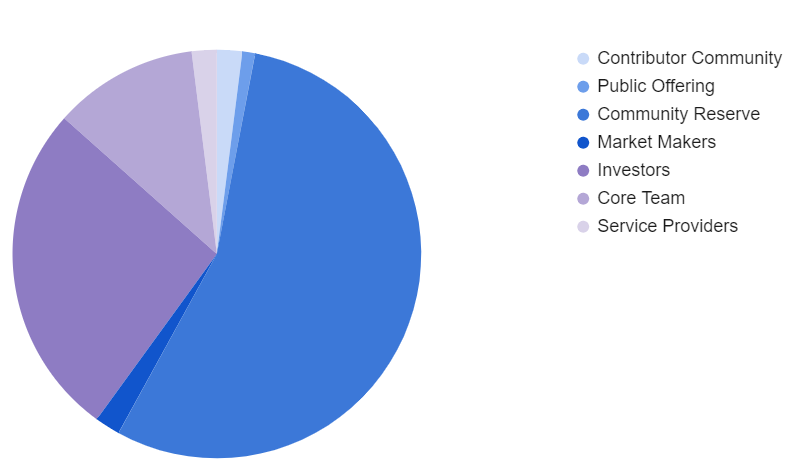
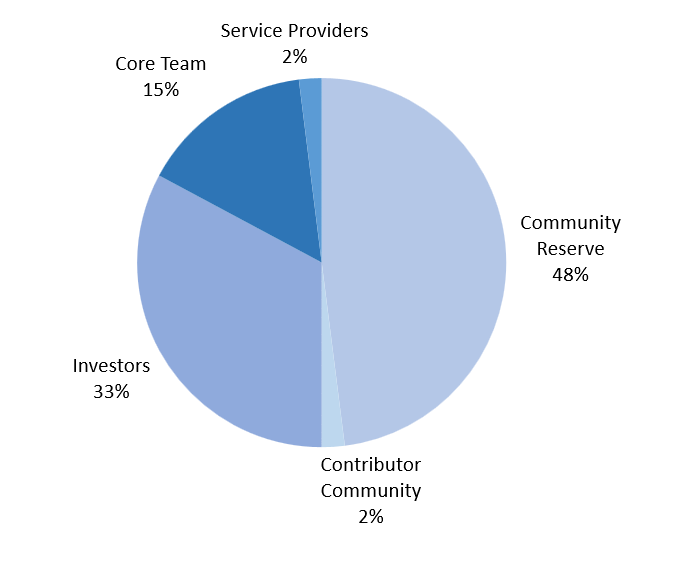
Update token-utility-whitepaper.md (#9)
* Update token-utility-whitepaper.md

* Add files via upload

* Add files via upload

* Add files via upload

* Add files via upload

* Add files via upload

* Add files via upload

* Update token-utility-whitepaper.md

* Add files via upload

* Add files via upload

* Update token-utility-whitepaper.md

diff --git a/token-utility-whitepaper.md b/token-utility-whitepaper.md
@@ -1,83 +1,75 @@
-# Token Utility Whitepaper - v1.1
+# Token Utility Whitepaper - v2.0
 
 ## Introduction
-A token economy is non-trivial and continues to be an area of much research and debate in the Ethereum community. This proposal document is just that, a proposal which is intended to deliver a viable starting point for an Obscuro token economy. The economic model is expected to evolve over the lifetime of Obscuro via governance proposals.
+A token economy is non-trivial and continues to be an area of much research and debate in the Web3 community. This proposal document is just that, a proposal which is intended to deliver a viable starting point for an Obscuro token economy. The economic model is expected to evolve over the lifetime of Obscuro via governance proposals.
 
-Obscuro depends upon a network of intercommunicating Obscuro nodes to achieve its decentralisation, scalability and privacy promises. The Obscuro Mainnet node operators incur operating costs for which they need to be remunerated. This is achieved through a rewards and incentives model for the Obscuro token called OBX. Additionally OBX provides the means for the Obscuro community to vote on change proposals to Obscuro and for ongoing development of the Obscuro ecosystem. 
-The Obscuro tokenomics have been designed to be circulatory and self-sustaining with no human intervention and no subsidies. Instead decentralised Obscuro smart contracts handle all token movements (transaction fees, rewards and staking).
+The eventual Obscuro implementation depends upon a network of intercommunicating Obscuro nodes to achieve its decentralisation, scalability and confidentiality promises. Obscuro node operators incur operating costs for which they need to be remunerated. This is achieved through a rewards and incentives model. Obscuro's native token, OBX, provides the means for the Obscuro community to vote on change proposals to Obscuro and for ongoing development of the Obscuro ecosystem. The long-term Obscuro tokenomics have been designed to be circulatory and self-sustaining with no human intervention and no subsidies. Instead decentralised Obscuro smart contracts handle all token movements (transaction fees, rewards and staking).
 
-Although OBX is not deflationary, token holders are incentivised to stake as node operators or as staking delegates by means of a reward. This will lock up OBX in staking pools and reduce the number of OBX in circulation. 
-
-This tokenomics whitepaper describes the long term intentions for OBX’s utility. In some cases a shorter term approach is used to bootstrap the Obscuro network. Where required, this whitepaper explicitly makes that clear.
-In summary, OBX has four utilities:
+This tokenomics whitepaper describes both the tokenomics for the bootstrapping phase of the Obscuro network and the long term intentions for OBX’s utility. In summary, OBX will have four utilities after the bootstrapping phase and once the long term plans for Obscuro are in place:
 
 1.	To provide a reward to incentivise node operators to correctly operate Obscuro nodes and provide a reliable service.
 2.	A medium in which users can pay transaction fees and node operators can pay their stake and receive rewards to cover operational costs.
 3.	A means to vote on proposals for changes to Obscuro via a governance model.
 4.	A means to fund and incentivise the ongoing development of the Obscuro ecosystem via development opportunities, grants and competitions.
 
+## Bootstrapping
 
-## Token Issuance
-_This section is non-normative_
+The eventual Obscuro implementation and the final outcome of this tokenomics proposal assumes an Obscuro network with significant traction. To get there we estimate Obscuro will need at least one year, most likely more. During these early days of bootstrapping we have to take into consideration ease of adoption, code maturity and security. A low friction user and developer experience has been an obsession within Obscuro's design underpining many decisions.
 
-OBX is issued by the Obscuro Foundation. The Token Generation Event (TGE) occurs when the Obscuro Mainnet is substantially complete and application builders and Obscuro participants can meaningfully interact with it. The Obscuro Foundation DAO controls the ongoing tokenomics for Obscuro Mainnet according to the DAO’s constitution.
+Other major Layer 2 solutions have opted for a pragmatic approach where they have started out paying gas fees in ETH, Ethereum's native token, rather than their native token. We propose that Obscuro starts out similarly to these Layer 2 solutions with transaction fees and rewards being in ETH whilst the OBX token's utility remains in place as a means of providing a node stake and as a means of voting on proposals for changes to Obscuro via a governance model.
+
+## Token Supply
+
+OBX is issued by the Obscuro Foundation. The Token Generation Event (TGE) occurs after the Obscuro Mainnet being substantially complete and application builders and Obscuro participants can meaningfully interact with it. The Obscuro Foundation DAO controls the ongoing tokenomics for Obscuro according to the DAO’s constitution.
 
 The initial token supply is 1,000,000,000 OBX. There is no minting or burning in the Obscuro protocol design. At a future date the Obscuro DAO will have the option of voting to issue more tokens if required.
 
-The allocations aim to reward ongoing participation in Obscuro and minimise short-termism. The largest allocations with unlocking from the get-go are for community members, third-party integrators and application developers building on top of Obscuro so they can grow and succeed alongside Obscuro.
+## Token Staking and Delegated Staking
+Nodes must stake OBX when they initially join Obscuro Mainnet as a means for the node operator to demonstrate their intention to maintain the health of the network and the integrity of the ledger. The stake is intentionally set at a high quantity so the loss of stake is material to the operator, for example their ability to take part in the governance of the network is diminished. Locked seed round tokens and unlocked tokens can be staked.
 
-An airdrop has been intentionally omitted from the allocation because typically they do not benefit projects in the medium to long term. However where a responsible airdrop program can be used to drive adoption of Obscuro this decision will be revisited.
+The number of tokens required to stake will be reviewed and set by the Obscuro Foundation DAO as the Obscuro Mainnet total value locked (TVL) increases. Increasing the minimum stake as TVL increases continues to disincentivise would-be malicious actors from disrupting the network as the theoretical gain from a malicious event becomes more attractive. Once the bootstrapping phase is complete, the size of a node’s stake influences the probability of that node winning the lottery for the rollup submission round.
 
+Delegated staking is also available to allow others without access to large amounts of OBX to participate in Obscuro Mainnet. Delegates are in a position to take a proportion of the reward issued to a node. Delegates are free to choose which node they contribute a stake for, this being an incentive for node operators to provide healthy nodes with good uptime, performance and reliability guarantees. This contributes to the good health of the overall Obscuro network. The Obscuro Foundation DAO monitors the Obscuro network checking for clustering of stakes and a skew towards centralisation from decentralisation in which case additional measures could be proposed to maintain an appropriate degree of decentralisation.
+
+The diagram below summarises the different types of staking and the distribution of delegated stakes.  
+
+
+<p align="left" width="100%">
+    <img width="75%" src="./assets/delegated-staking-diagram-20230601.png">
+</p>
+
+1. Nodes 1 and 2 have the minimum stake quantity provided by the node operator and they are participants on the Obscuro network. Node 3 does not have the minimum stake therefore it is not a member of the Obscuro network.
+2. A delegated stake is provided for node 1 and node 2. Node 2 has the larger delegated stake which has influenced the probability of node 2 winning the rollup lottery.
+3. Node 2 has won the rollup lottery. The reward is given and shared proportionally amongst the node operator and delegates for Node 2 in line with the proportion of quantity of their staked OBX.
+
+There is an occasion where tokens are slashed although this is expected to be very rare. Specifically, operators who use a hacked enclave on their node in an attempt to break the ledger’s integrity will be discovered by the protocol. Their punishment is to have their stake slashed and returned to the Community Reserve.
+
+## Rewards
+There are three types of node rewards in Obscuro: a reward for being an active node and taking part in the lottery to select which node will submit a rollup; a reward for submitting a rollup to the Layer 1; a reward for making a successful challenge to an inaccurate rollup, for example transactions are missing or in the wrong order. During the bootstrapping phase rewards will be made in ETH and the reward will be limited to those nodes which are verifying the accuracy of the signed list of transaction hashes generated. After the bootstrapping phase the rewards will be made in OBX and the reward model extended to include the nodes producing rollups and publishing to the Layer 1.
+
+If a node finds a discrepancy with the rollup published on the Layer 1 network, it can post a challenge including the offending rollup to the Layer 1 network. The management contract will inspect this challenge. If successful during the bootstrapping phase, a reward in ETH is given to the challenging node. After the bootstrapping phase the rewards will be made in OBX. The value of the reward is greater than the gas cost of posting the challenge to incentivise prompt discovery of issues. Additionally the stake of the node which introducted the discrepency will be slashed with the entire stake returning to the Community Reserve.
+
+## Token Allocation
+
+The allocations of OBX aim to reward ongoing participation in Obscuro and minimise short-termism. The largest allocations are for community members, third-party integrators and application developers building on top of Obscuro so they can grow and succeed alongside Obscuro.
 
 | RECIPIENT             | TOKEN AMOUNT   | ALLOCATION % |
 |-----------------------|----------------|--------------|
 | Contributor Community | 20,000,000     | 2.00         |
-| Public Offering       | 10,000,000     | 1.00         |
-| Community Reserve     | 550,000,000    | 55.00        |
-| Market Makers         | 20,000,000     | 2.00         |
-| Investors*            | 265,700,000    | 26.57        |
-| Core Team             | 114,500,000    | 11.45        |
+| Community Reserve     | 480,000,000    | 48.00        |
+| Investors             | 328,200,000    | 32.82        |
+| Core Team             | 152,000,000    | 15.20        |
 | Service Providers     | 19,800,000     | 1.98         |
 
-   *Pre-seed investor has rights to 23% of token allocation at each token issuance.
 
 <p align="center" width="100%">
     <img width="75%" src="./assets/token-allocation-pie-230228.png">
 </p>
 
-### Token Staking and Delegated Staking
-Nodes must stake OBX when they initially join Obscuro Mainnet as a means for the node operator to demonstrate their intention to maintain privacy, ledger integrity and not attempt to disrupt the safety of the network. The stake is intentionally set at a high value so the loss of stake is material to the operator. Locked tokens can be staked.
-
-If a node finds a discrepancy with the rollup published on the Layer 1 network (e.g. transactions missing, transactions in the wrong order), it can post a challenge including the offending rollup to the Layer 1 network. The management contract will inspect this challenge. If successful, the Aggregator's stake will be slashed, with their entire stake split between the Obscuro Foundation DAO and the challenging node as a reward. This reward is greater than the cost of posting the challenge to incentivise prompt discovery of issues, but less than the total stake to reduce the incentive to mount an attack to win the stake.
-
-The number of tokens required to stake will be reviewed and set by the Obscuro Foundation DAO as the Obscuro Mainnet total value locked (TVL) increases. Increasing the minimum stake as TVL increases continues to economically disincentivise would-be malicious actors from disrupting the network as the theoretical gain from a malicious event becomes more attractive. Once the bootstrapping phase is complete, the size of a node’s stake influences the probability of that node winning the lottery for the rollup submission round.
-
-Delegated staking is also available to allow others without access to large amounts of OBX to participate in Obscuro Mainnet. Delegates are in a position to take a proportion of the reward issued to a node. Delegates are free to choose which node they contribute a stake for, this being an incentive for node operators to provide healthy nodes with good uptime, performance and reliability guarantees. This contributes to the good health of the overall Obscuro network. The Obscuro Foundation DAO monitors the Obscuro network checking for clustering of stakes and a skew towards centralisation from decentralisation in which case additional measures could be proposed to maintain an appropriate degree of decentralisation.
-
-The diagram below summarises the different types of staking and the distribution of delegated stakes.
-
-<p align="left" width="100%">
-    <img width="75%" src="./assets/Delegated-Staking.png">
-</p>
-
-1. Nodes 1 and 2 have the minimum stake value provided by the node operator and they are participants on the Obscuro network. Node 3 does not have the minimum stake therefore it is not a member of the Obscuro network.
-2. A delegated stake is provided for node 1 and node 2. Node 2 has the larger delegated stake which has influenced the probability of node 2 winning the rollup lottery.
-3. Node 2 has won the rollup lottery. The reward is taken from the pool of transaction fees and shared proportionally amongst the node operator and delegates for Node 2 in line with the proportion of their staked value.
-
-There is an occasion where tokens are slashed although this is expected to be very rare. Specifically, operators who use a hacked enclave on their node in an attempt to break the ledger’s integrity will be discovered by the protocol. Their punishment is to have their stake slashed and returned to the Community Reserve.
-
-### Rewards and Fees
-Rewards in Obscuro are an additional incentive to the stake so node operators maintain reliable and accurate nodes thereby contribute to the health of the Obscuro network. During the bootstrapping phase rewards will be limited to the nodes which will be verifying the accuracy of the signed list of transaction hashes generated. After the bootstrapping phase the rewards will be extended to include the nodes producing rollups and publishing to the Layer 1.
-
-Rewards are paid out from a pool of OBX maintained by transaction fees paid in OBX. Because Obscuro does not link fees and rewards directly, the intention is to find a stable equilibrium between the amounts paid into the pool by end users for their transactions and the amounts paid out to nodes for their service. This equilibrium is established when the transaction fees can pay for the Layer 1 gas costs to achieve an optimal rollup submission interval. In periods when the number of transactions is high the pool will grow and the surplus will be used in periods when the number of transactions is lower in order to maintain the rollup submission interval thus providing a predictable user experience. 
-
-## Token Allocation
-_This section is non-normative_
-
 ### Public Offering and Contributor Community
 The Public Offering and Contributor Community are important for Obscuro to gain early traction in the wider community, achieve organic growth and for early contributors to be recognised for their efforts. It is gratifying and empowering for community members to be rewarded for being active contributors to a project as opposed to receiving the same treatment as people arriving with potentially no genuine enthusiasm for the project. It is also in the interest of the project to identify the value-adding community members and incentivise them to remain active and continue adding value to Obscuro over the long term.
 
-The Contributor Community will be 2% of the total token allocation pool. Contributor Community tokens will be distributed to contributors from the Obscuro community after the launch of Obscuro Mainnet at no cost to the contributor. Contributions are defined, captured, tracked and scored using a decentralised task management tool called Dework. The Dework bounty score indicates how much of the Contributor Community pool a contributor is entitled to. Each contributor's token allocation will be a percentage of their total contributions against the entire community contribution up to the day of Obscuro Mainnet launch.
+Contributor Community tokens will be distributed to contributors from the Obscuro community after the launch of Obscuro Mainnet at no cost to the contributor. Contributions are defined, captured, tracked and scored using a decentralised task management tool. The score achieved in the task management tool indicates how much of the Contributor Community pool a contributor is entitled to. Each contributor's token allocation will be a percentage of their total contributions against the entire community contribution up to the day of Obscuro Mainnet launch.
 
 The Public Offering event and Contributor Community distribution will be conducted through a reputable third-party private offering manager so the necessary regulatory checks are completed with confidence. 
 
@@ -86,55 +78,40 @@ The Public Offering event and Contributor Community distribution will be conduct
 The Community Reserve exists to run and enhance the Obscuro platform and develop and evolve the Obscuro ecosystem over time.  The Obscuro Foundation DAO has oversight of how the Community Reserve is put to use. Examples include engagement with engineering talent, or protocol developers, to further develop the Obscuro platform using tokens as a form of incentive, settling of legal fees and covering other operational costs, security tests and bug bounty programs, incentivising members of the community to make meaningful contributions to Obscuro via incentive programs, grants, hackathons and competitions.
 
 ### Investors and Core Team
-Providing investors and the Core Team with the opportunity to participate in the Obscuro network is an important part of their contribution to the wider Obscuro ecosystem. Token allocations to these groups encourage continued engagement, interest and contributions. Additionally, application builder engagement in Obscuro is a top priority and nurturing deep engagements with partners who can contribute to Obscuro in a very meaningful way is vital. By encouraging investors to remain actively engaged will help open doors to high quality applications within their portfolio of companies and encourage their migration to Obscuro.
-
-### Market Makers
-The Market Maker allocation provides market makers with access to tokens they require to provide liquidity for OBX exchange thereby giving end users the opportunity to acquire OBX to use the Obscuro network.
+Providing investors and the Core Team with the opportunity to participate in the Obscuro network is an important part of their contribution to the wider Obscuro ecosystem. Token allocations to these groups encourage continued engagement, interest and contributions. Additionally, application builder engagement in Obscuro is a top priority and nurturing deep engagements with partners who can contribute to Obscuro in a meaningful way is vital. Encouraging investors to remain actively engaged will help open doors to high quality applications within their portfolio of companies and encourage their migration to Obscuro.
 
 ### Service Providers
 Over the course of Obscuro’s lifetime there have been and will be specific expertise, talent and guidance required to make Obscuro a useful and successful platform. Companies that provide this service are allocated tokens to gain the opportunity to use the Obscuro platform.
 
-## Token Unlocking
-_This section is non-normative_
+## Token Emission
 
-Token unlocking periods are a mixture of time-based and milestone-based outcomes. The unlocking periods have been designed to strike a balance between allowing utility in Obscuro Mainnet from the get-go and encouraging continued high-quality development and commitment to the Obscuro ecosystem over a number of years.
+Token unlocking periods have been designed to strike a balance between allowing utility in Obscuro Mainnet from the get-go and encouraging continued high-quality development and commitment to the Obscuro ecosystem over a number of years.
 
-Tokens distributed to the Contributor Community unlock over the course of 60 months from TGE to encourage continued engagement with Obscuro and discourage early dumping.
+Tokens distributed to the Contributor Community and Public Offering partially unlock at TGE to allow participation in the Obscuro Mainnet as early as possible without applying downward pressure and making it difficult for others to make use of Obscuro. Specifically, tokens can be used by node operators to stake, for members of the community to participate in delegated staking and to contribute to the governance of the network.
 
-Tokens distributed to the Public Offering fully unlock at TGE to allow participation in the Obscuro Mainnet as early as possible without applying downward pressure and making it difficult for others to make use of Obscuro. Specifically, tokens can be used by application users to pay transaction fees, for node operators to stake and for members of the community to participate in delegated staking.
-
-Tokens distributed to the Community Reserve are unlocked on a schedule designed to provide early access to the tokens required to execute on their plans, for example, run hackathons to raise awareness of Obscuro.
+Tokens distributed to the Community Reserve are unlocked on a schedule designed to provide early access to the tokens required to execute on their plans, for example, run Obscuro hackathons and raise awareness amongst the developer community.
 
 Tokens distributed to Investors and the Core Team are initially locked up followed by multi-year unlocks to keep team and investor sentiment high, encourage long term focus in their investment and clearly demonstrate their commitment to the success of Obscuro.
 
 
 ### Token Unlocking Schedule
-_This section is normative_
 
-| RECIPIENT             | UNLOCK AFTER    | UNLOCKED PERIOD |
-|-----------------------|-----------------|-----------------|
-| Contributor Community | 0 months        | 60 months       |
-| Public Offering       | 0 months        | 0 months        |
-| Community Reserve     | 0 months        | 60 months       |
-| Market Makers         | 0 months        | 0 months        |
-| Investors             | 12 months       | 48 months       |
-| Core Team             | 12 months       | 48 months       |
-| Service Providers     | 12 months       | 48 months       |
+| RECIPIENT             | TGE UNLOCK % | UNLOCK CLIFF    | POST-CLIFF UNLOCKING PERIOD |
+|-----------------------|--------------|-----------------|-----------------------------|
+| Contributor Community | 100          | 0 months        | 0 months                    |
+| Community Reserve     | 11           | 0 months        | 60 months                   |
+| Pre-seed investors    | 0            | 12 months       | 48 months                   |
+| Seed investors        | 0            | 6 months        | 24 months                   |
+| Strategic investors   | 0            | 12 months       | 36 months                   |
+| Core Team             | 0            | 12 months       | 48 months                   |
+| Service Providers     | 0            | 12 months       | 48 months                   |
 
 The chart below shows the token unlocking schedule in graphical form:
 
 <p align="center" width="150%">
-    <img width="75%" src="./assets/token-unlock-bar-230228.png">
+    <img width="100%" src="./assets/token-unlock-bar-230602.png">
 </p>
 
-## Token Value
-_This section is non-normative_
-
-Value can be thought of in many different ways and the price of OBX fulfils several requirements. First, Obscuro node operators are remunerated for their operational costs.
-    
-Second, Obscuro’s decentralisation depends, in part, on the ability to make it economically unviable to control the majority of nodes in the Obscuro network. This is achieved through a staking model where OBX is used.  Delegated staking provides the opportunity for members of the Obscuro community with limited capital to engage with Obscuro.
-    
-Third, the value early contributors bring to Obscuro to help build the momentum within the community and provide feedback on the project needs to be recognised.
 
 ## Appendix A - Contributors
 Thanks to the following contributors to this document:
